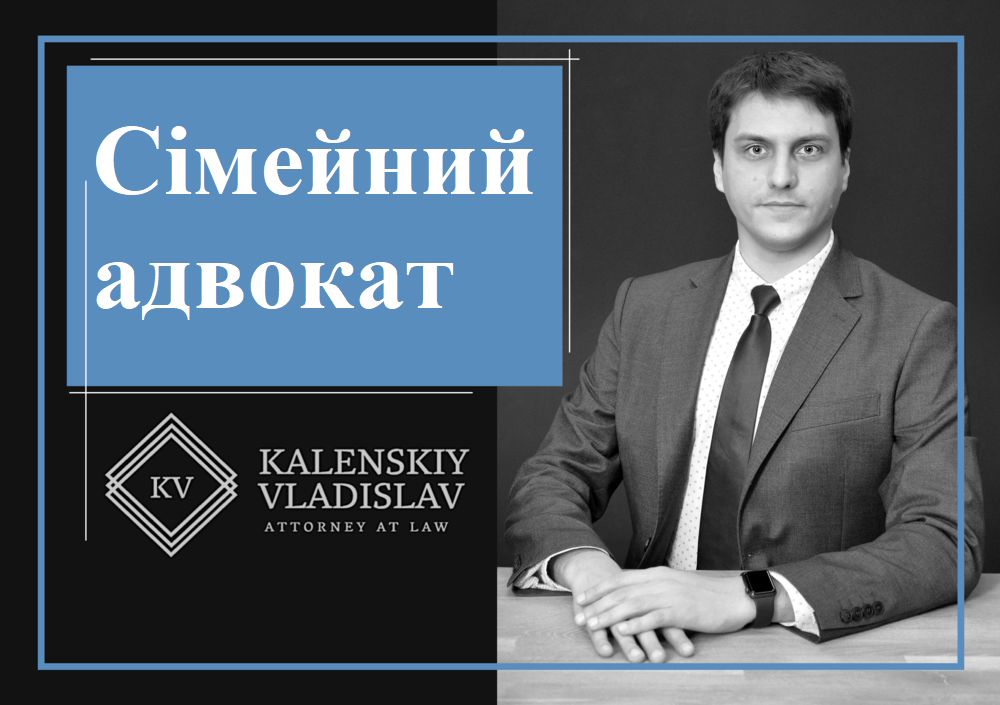
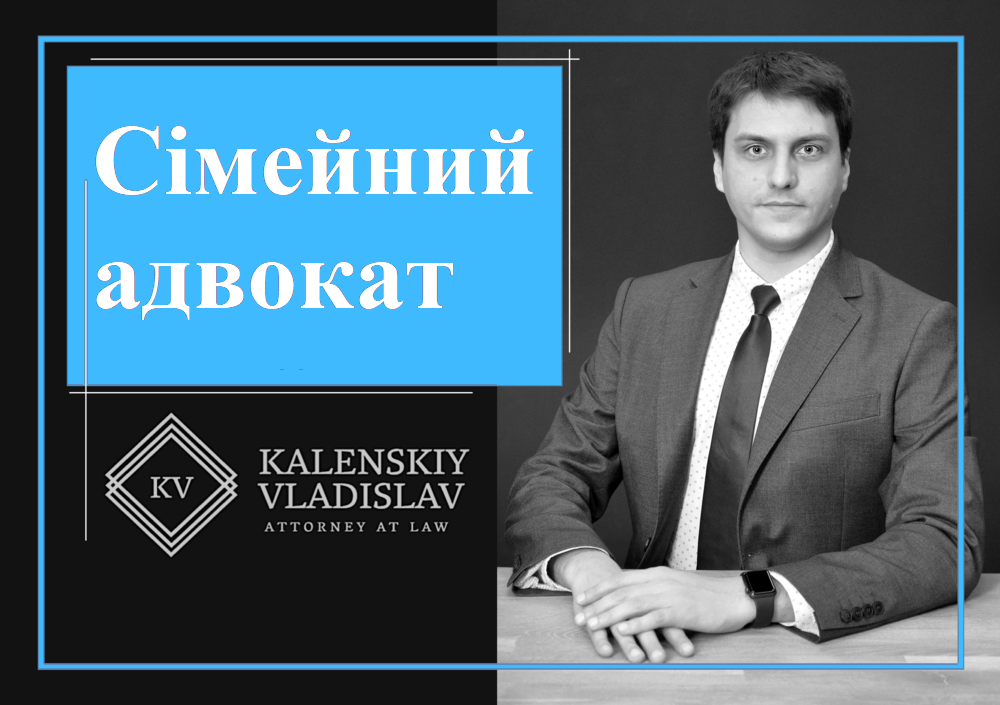
upd

Changed region(s): [[0.031, 0.0312, 0.961, 0.9674]]

diff --git a/styles.css b/styles.css
@@ -11,13 +11,17 @@
 }
 
 i > a {
-  text-decoration: none;
-  font-family: "Courier New", Courier, monospace;
+  font-family: system-ui, -apple-system, "Segoe UI", Roboto, "Helvetica Neue",
+    Arial, "Noto Sans", "Liberation Sans", sans-serif, "Apple Color Emoji",
+    "Segoe UI Emoji", "Segoe UI Symbol", "Noto Color Emoji";
 }
 
-i {
-  text-decoration: none;
-  font-family: "Courier New", Courier, monospace;
+/* i {
+  font-family: "Franklin Gothic Medium", "Arial Narrow", Arial, sans-serif;
+} */
+
+.btn-primary {
+  background: radial-gradient(#3fbafe, #3fbafe);
 }
 
 .card {
@@ -84,17 +88,6 @@ html {
   font-size: 100%;
 }
 
-body {
-  font-family: acumin-pro, system-ui, sans-serif;
-  margin: 0;
-  display: grid;
-  grid-template-rows: auto 1fr auto;
-  font-size: 14px;
-  background-color: #f4f4f4;
-  align-items: start;
-  min-height: 100vh;
-}
-
 .footer {
   display: flex;
   flex-flow: row wrap;
@@ -145,7 +138,7 @@ body {
   color: #999;
   line-height: 0;
   margin: 0.6em 0;
-  font-size: 1rem;
+  /* font-size: 1rem; */
   padding: 0 1.3em;
 }
 
@@ -378,7 +371,7 @@ SERVICES PAGE SERVICES PAGE SERVICES PAGE SERVICES PAGE SERVICES PAGE SERVICES P
 }
 
 .card-2 {
-  background: radial-gradient(#fbc1cc, #fa99b2);
+  background: radial-gradient(#1fe4f5, #3fbafe);
 }
 
 .card-3 {
@@ -386,11 +379,11 @@ SERVICES PAGE SERVICES PAGE SERVICES PAGE SERVICES PAGE SERVICES PAGE SERVICES P
 }
 
 .card-4 {
-  background: radial-gradient(#60efbc, #58d5c9);
+  background: radial-gradient(#76b2fe, #b69efe);
 }
 
 .card-5 {
-  background: radial-gradient(#f588d8, #c0a3e5);
+  background: radial-gradient(#76b2fe, #b69efe);
 }
 
 /* RESPONSIVE */

diff --git a/services.html b/services.html
@@ -11,11 +11,11 @@
       integrity="sha384-1BmE4kWBq78iYhFldvKuhfTAU6auU8tT94WrHftjDbrCEXSU1oBoqyl2QvZ6jIW3"
       crossorigin="anonymous"
     />
-    <script
+    <!-- <script
       src="https://cdn.jsdelivr.net/npm/bootstrap@5.1.3/dist/js/bootstrap.bundle.min.js"
       integrity="sha384-ka7Sk0Gln4gmtz2MlQnikT1wXgYsOg+OMhuP+IlRH9sENBO0LRn5q+8nbTov4+1p"
       crossorigin="anonymous"
-    ></script>
+    ></script> -->
     <script src="https://kit.fontawesome.com/37d5608a26.js" crossorigin="anonymous"></script>
     <link
       class="logo"
@@ -112,11 +112,6 @@
     </div>
   </div>
 
-
-
-
-
-
 <!-- 
     ЦВЕТНЫЕ КАРТОЧКИ -->
 
@@ -127,9 +122,6 @@
   <footer class="footer">
     <div class="footer__addr">
       <h1 class="footer__logo">Адвокат Каленський Владислав</h1>
-  
-      <h2>Адреса офісу та контактний номер адвоката:</h2>
-  
       <address>
         <i class="fa-solid fa-location-dot"><a class="footer__btn"href="https://goo.gl/maps/3XuUgS6rv9FezaHS9">м. Київ, вул. Будівельників, 38/14</a></i>
         <i class="fa-solid fa-phone"><a class="footer__btn" href="tel:+380508538483">+38 (050) 853 84 83</a></i>

diff --git a/index.html b/index.html
@@ -11,13 +11,11 @@
       integrity="sha384-1BmE4kWBq78iYhFldvKuhfTAU6auU8tT94WrHftjDbrCEXSU1oBoqyl2QvZ6jIW3"
       crossorigin="anonymous"
     />
-    <script
+    <!-- <script
       src="https://cdn.jsdelivr.net/npm/bootstrap@5.1.3/dist/js/bootstrap.bundle.min.js"
       integrity="sha384-ka7Sk0Gln4gmtz2MlQnikT1wXgYsOg+OMhuP+IlRH9sENBO0LRn5q+8nbTov4+1p"
       crossorigin="anonymous"
-    ></script>
-
-    <!-- <script> alert("Сайт у розробці. Функціонал обмежений."); </script>  -->
+    ></script> -->
 
     <script src="https://kit.fontawesome.com/37d5608a26.js" crossorigin="anonymous"></script>
 
@@ -98,9 +96,6 @@
   <footer class="footer">
     <div class="footer__addr">
       <h1 class="footer__logo">Адвокат Каленський Владислав</h1>
-  
-      <h2>Адреса офісу та контактний номер адвоката:</h2>
-  
       <address>
         <i class="fa-solid fa-location-dot"><a class="footer__btn"href="https://goo.gl/maps/3XuUgS6rv9FezaHS9">м. Київ, вул. Будівельників, 38/14</a></i>
         <i class="fa-solid fa-phone"><a class="footer__btn" href="tel:+380508538483">+38 (050) 853 84 83</a></i>

diff --git a/practice.html b/practice.html
@@ -11,11 +11,11 @@
       integrity="sha384-1BmE4kWBq78iYhFldvKuhfTAU6auU8tT94WrHftjDbrCEXSU1oBoqyl2QvZ6jIW3"
       crossorigin="anonymous"
     />
-    <script
+    <!-- <script
       src="https://cdn.jsdelivr.net/npm/bootstrap@5.1.3/dist/js/bootstrap.bundle.min.js"
       integrity="sha384-ka7Sk0Gln4gmtz2MlQnikT1wXgYsOg+OMhuP+IlRH9sENBO0LRn5q+8nbTov4+1p"
       crossorigin="anonymous"
-    ></script>
+    ></script> -->
     <script src="https://kit.fontawesome.com/37d5608a26.js" crossorigin="anonymous"></script>
     <link
       class="logo"

diff --git a/publ.html b/publ.html
@@ -11,11 +11,11 @@
       integrity="sha384-1BmE4kWBq78iYhFldvKuhfTAU6auU8tT94WrHftjDbrCEXSU1oBoqyl2QvZ6jIW3"
       crossorigin="anonymous"
     />
-    <script
+    <!-- <script
       src="https://cdn.jsdelivr.net/npm/bootstrap@5.1.3/dist/js/bootstrap.bundle.min.js"
       integrity="sha384-ka7Sk0Gln4gmtz2MlQnikT1wXgYsOg+OMhuP+IlRH9sENBO0LRn5q+8nbTov4+1p"
       crossorigin="anonymous"
-    ></script>
+    ></script> -->
     <link
       class="logo"
       rel="apple-touch-icon"
